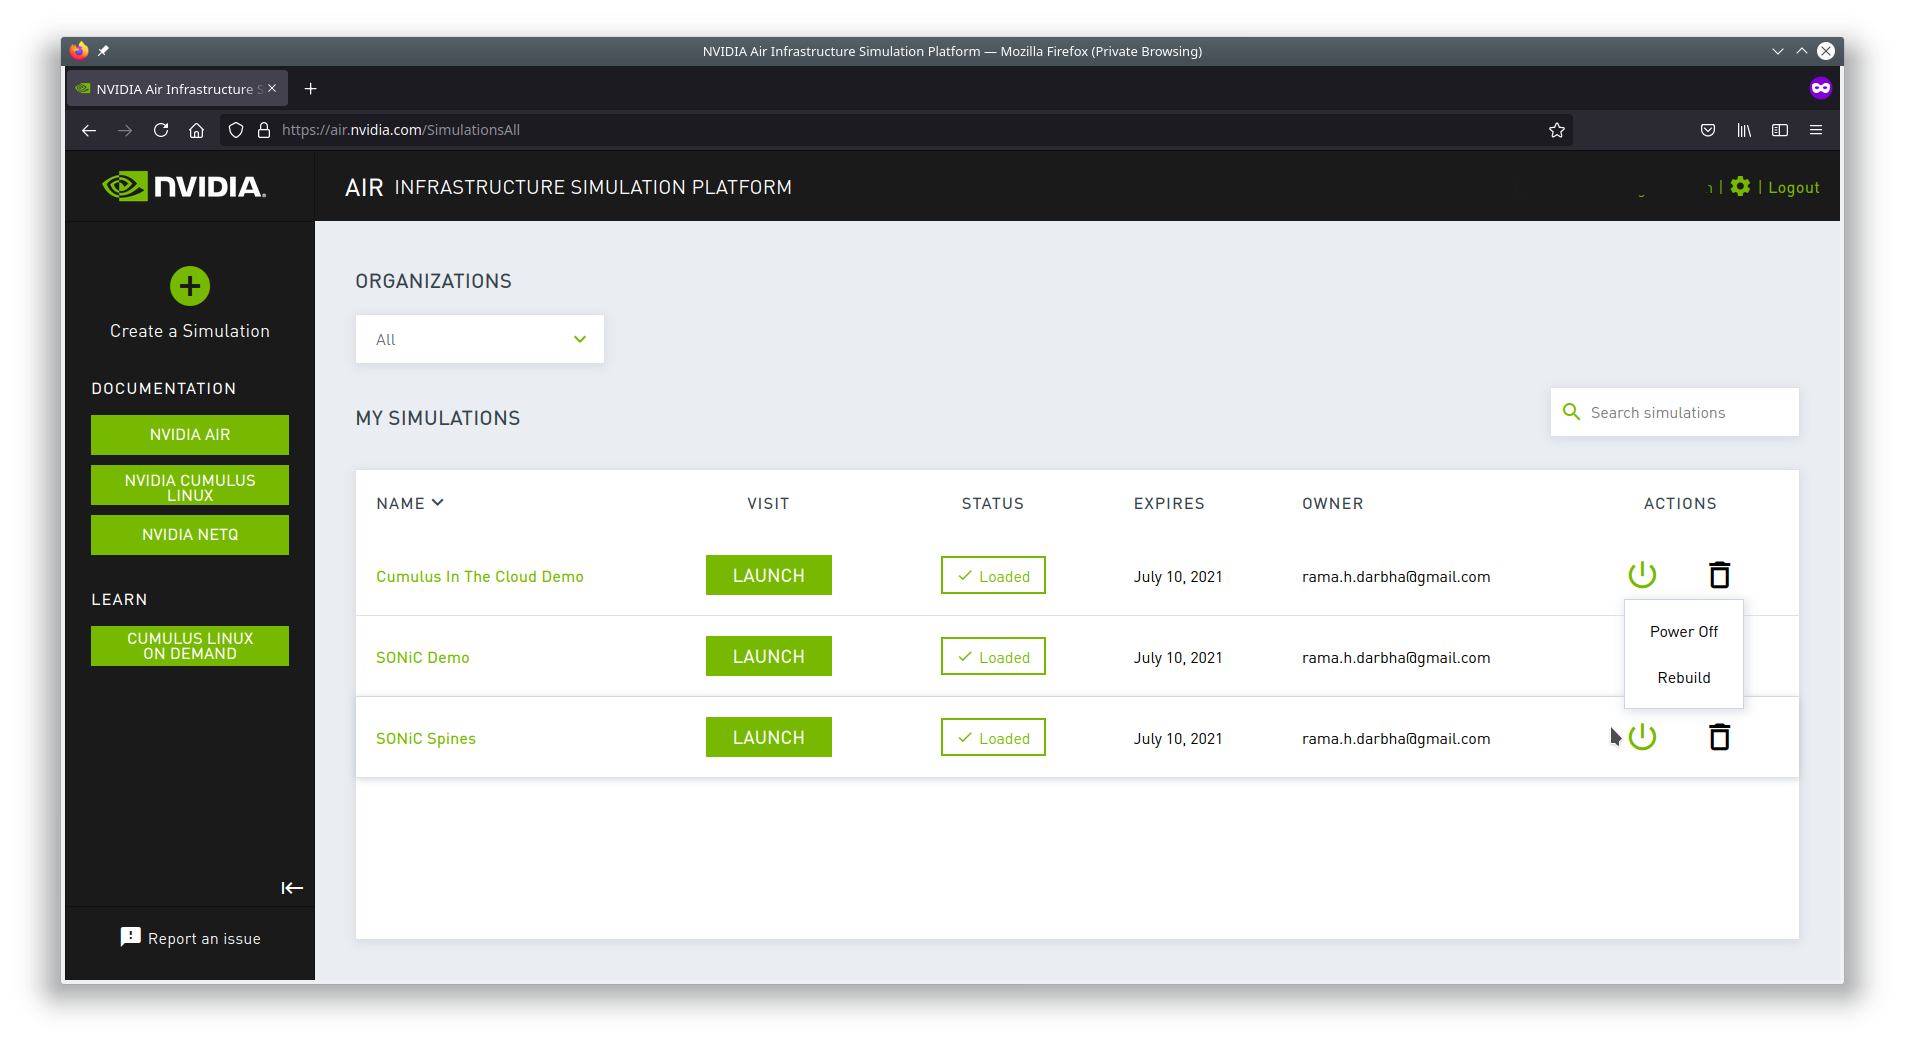
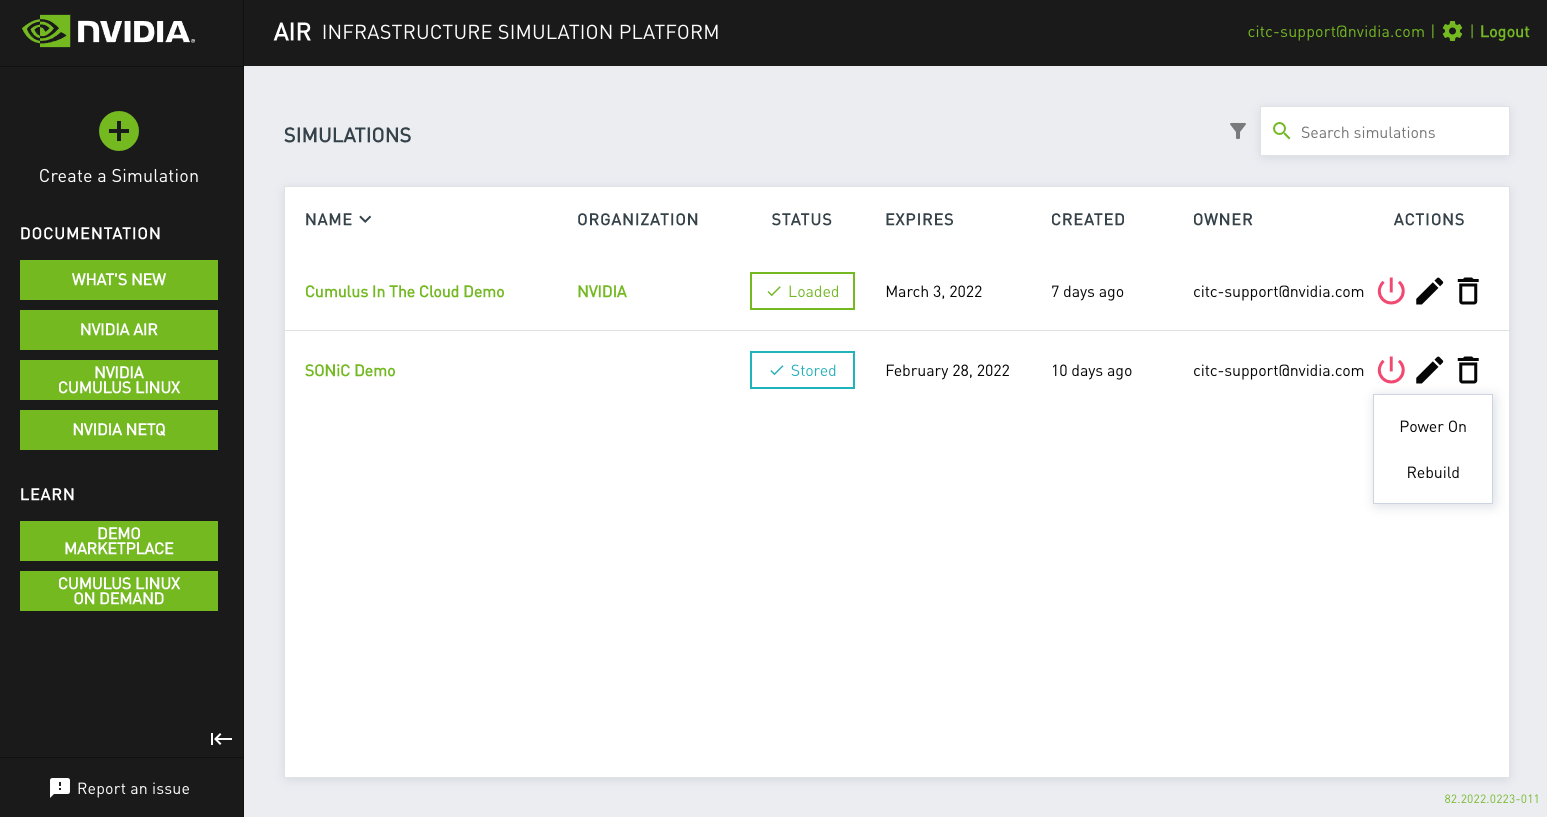
Add documentation for Organization Management

diff --git a/content/guides/nvidia-air/Organizations.md b/content/guides/nvidia-air/Organizations.md
@@ -1,0 +1,42 @@
+---
+title: Organizations
+author: NVIDIA
+weight: 50
+product: NVIDIA Air
+---
+
+NVIDIA Air supports the ability to collaborate and share simulations with your colleagues in an organization. To join an organization, contact your Organization Administrator or your NVIDIA sales team. If you don't know who your Organization Administrator is, please reach out to citc-support@nvidia.com.
+
+## Working with organizations
+
+Each simulation can optionally be assigned to an organization that you are a member of. All members of the organization can view all of its assigned simulations.
+
+In the simulation list, the **Organizations** column will display which organization the simulation is assigned to.
+
+{{<img src="/images/guides/nvidia-air/ManagingSim.png" width="800px">}}
+
+<div style="margin-top: 20px;"></div>
+
+To assign a simulation to an organization, use the **Organization** dropdown menu from the **Edit Simulation** window.
+
+{{<img src="/images/guides/nvidia-air/EditSim.png">}}
+
+## Managing an organization
+
+As an Organization Administrator, the organization details page will show a list of current members, their roles, and the resource utilization for all simulations in the organization.
+
+{{<img src="/images/guides/nvidia-air/OrgDetails.png">}}
+
+<div style="margin-top: 20px;"></div>
+
+To add a new member, click the **Add Members** button and enter the email address of each new member.
+
+{{<img src="/images/guides/nvidia-air/AddOrgMember.png">}}
+
+To remove a member select **Remove Member** from the actions menu. Note that removing a member from an organization will move all of their simulations out of the organization as well.
+
+## Deleting an organization
+
+To delete an organization, choose the **Delete** option from the actions menu. **Be careful!** Deleting an organization will also delete all of the simulations and resources assigned to it.
+
+{{<img src="/images/guides/nvidia-air/DeleteOrg.png">}}
